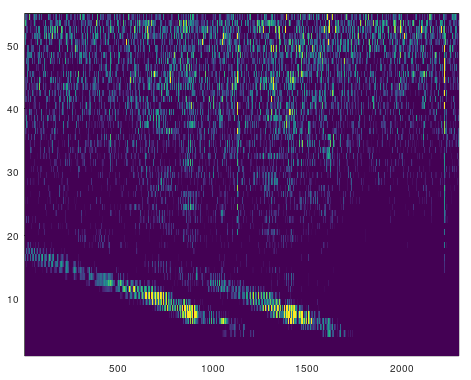
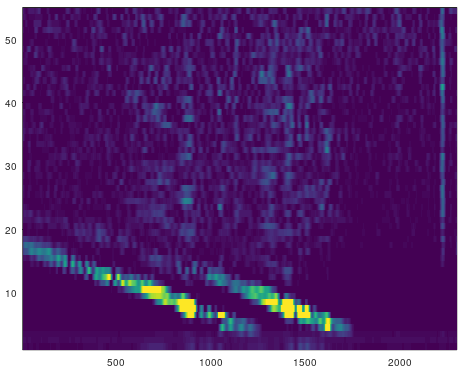
test 2

diff --git a/sim/fmcw_process.m b/sim/fmcw_process.m
@@ -7,13 +7,15 @@ sample_channel = 1;
 
 % 0: None
 % 1: Average
-% 2: Rolling
-static_removal = 2;
+edge_detect = 0;
 
+
+% DC level removal
+dc_removal_cycles = 0; %5
 
 % Post-equalization
 % 0:off, value:magnitude difference between the two ends
-post_eq = 100;
+post_eq = 0;
 
 
 % Logarithmic color representation (dynamic compression)
@@ -99,12 +101,12 @@ subarray_size = 1+lowest_samples_per_sweep-samples_to_skip_back-samples_to_skip_
 fft_base_Hz = samplerate / subarray_size
 
 % Processing
-avg_subarray = zeros(1,subarray_size);
 window = ones(1,subarray_size);
 window = rot90(hanning(subarray_size));
 
 dataarray = [];
 subarray = [];
+
 for i=1:sweeps_counter
     subarray = sample(sweepstarts(i)+samples_to_skip_front:sweepstarts(i)+lowest_samples_per_sweep-samples_to_skip_back);
     subarray = abs(fft(subarray .* window));
@@ -114,40 +116,76 @@ for i=1:sweeps_counter
             subarray(eqi) = subarray(eqi) * (1 + (eqi / subarray_size) * post_eq);
         end 
     endif
-
-    avg_subarray = avg_subarray + subarray;
-
     dataarray = [dataarray ; subarray];
 end
 
-avg_subarray = avg_subarray / sweeps_counter;
 
-
-% Post-processing
+% Edge-detecting
 plotarray_timeslots = size(dataarray)(1);
 plotarray = [];
-cat_subarray_size = subarray_size/6;
+cat_subarray_size = floor(subarray_size/6);
+
 for i=1:plotarray_timeslots
     subarray = dataarray(i,:);
-    switch static_removal
-        case 0
-        case 1
-            subarray = subarray - avg_subarray + 100;
-        case 2
-            if (i >= 2)
-                subarray = abs(subarray - dataarray(i-1,:)) + 100;
-            endif
-    end
-    subarray = subarray(1:cat_subarray_size);
-    if (log_color)
-        subarray = log10(subarray);
+    if (i >= 2)
+        if (edge_detect)
+            subarray = abs(subarray - dataarray(i-1,:));
+        endif
     endif
+    subarray = subarray(1:cat_subarray_size);
     plotarray = [plotarray ; subarray];
 end
-
 plotarray = plotarray(2:end,:);
+plotarray_size = size(plotarray)(1);
+subarray_size = cat_subarray_size;
 
-plotarray_size = size(plotarray)
+
+%plotarray = fft2(plotarray);
+%xstart=floor(plotarray_size/33);
+%for x=xstart:plotarray_size
+%    for y=1:subarray_size
+%        plotarray(x,y) = 0;
+%    end
+%end
+%plotarray = real(ifft2(plotarray));
+
+
+% DC leveling
+avgp_subarray = zeros(1,subarray_size);
+if (dc_removal_cycles)
+    for k=1:dc_removal_cycles
+        plot2array = [];
+        avg_subarray = zeros(1,subarray_size);
+        for i=1:plotarray_timeslots-1
+            subarray = plotarray(i,:);
+            avg_subarray = avg_subarray + subarray;
+            if (k > 1)
+                subarray = subarray - avgp_subarray;
+            endif
+            plot2array = [plot2array ; subarray];
+        
+        end
+        plotarray = plot2array;
+        avgp_subarray = avg_subarray / plotarray_timeslots-1;
+    end
+endif
+
+
+plotarray = fft2(plotarray);
+xstart=floor(plotarray_size/33);
+for x=xstart:plotarray_size
+    for y=1:subarray_size
+        plotarray(x,y) = 0;
+    end
+end
+plotarray = real(ifft2(plotarray));
+
+
+plotarray = (plotarray) + 100;
+if (log_color)
+    plotarray = log10(plotarray);
+endif
+
 
 
 printf("\n\n == Plotting ..\n\n");
@@ -157,19 +195,14 @@ plotmax = max(max(plotarray));
 plotampl = (plotmax - plotmin);
 
 plotmean = mean(mean(plotarray));
+plotmeantolow = plotmean - plotmin;
 
 figure;
 %colormap ("gray");
 h = pcolor(flip(rot90(plotarray)));
 set(h, 'EdgeColor', 'none');
 
-switch static_removal
-    case 0
-    case 1
-        caxis([(plotmean )      (plotmax - (plotampl * 0.33 ))]);
-    case 2
-        caxis([(plotmean )      (plotmax - (plotampl * 0.7 ))]);
-end
+caxis([(plotmean - (plotmeantolow * 0.7))      (plotmax - (plotampl * 0.7 ))]);
 
 
 sweepspan_Hz = 30e6

diff --git a/radar/README.md b/radar/README.md
@@ -113,7 +113,25 @@ These components can be characterized (e.g. by taking an initial measurement, or
 
 ![car_without_noise](car_without_noise.png)
 
-Two targets following each other:
+Two cars arriving after each other:
 
 ![double_car](double_car.png)
+
+
+### Testing #2
+
+The next testing was done at a viewpoint, where more car traffic could be captured. 
+
+![i90photo](i90photo.jpg)
+
+The raw measurement shows two prominent radar echoes; the first one is coming from a steel wire fence roughly 20m from the antenna down below (#4 mark on the Y axis), the second one is from a large traffic sign, above the road, at 150m distance (#22 mark on the Y axis). These two obstacles pretty much frame the captureable range to ~150m, as they sahdow out the range ahead- and behind them.
+
+![i90raw](i90raw.png)
+
+Removing the static level and post-processing unveils the traffic:
+
+![i90bridge](i90bridge.png)
+
+Vehicles can be seen to roughly the #30th mark on the Y axis (40m beyond the traffic sign), as the radar signals pass underneath the traffic sign and reach so far before hitting the road surface.
+
 
